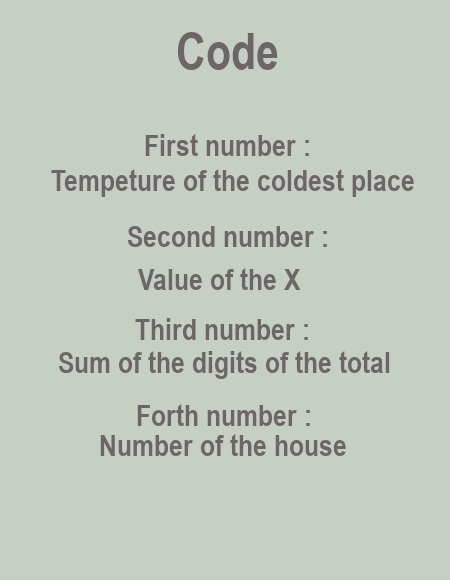
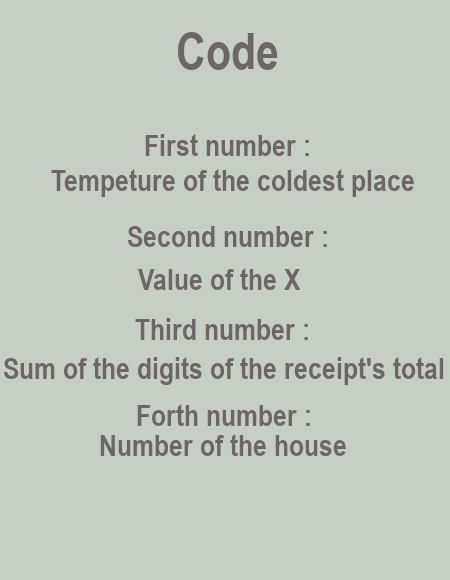
commit

Changed region(s): [[0.0, 0.5897, 0.9956, 0.6828]]

diff --git a/script.js b/script.js
@@ -15,6 +15,31 @@ let RECEIPT_INVENTORY;
 let RECEIPT_ZOOM;
 let KEY_INVENTORY;
 let NOTEBOOK_INVENTORY;
+let NOTEBOOK_ZOOM;
+let CODE_ZOOM=document.createElement("div");
+    CODE_ZOOM.id="code-zoom";
+    CODE_ZOOM.innerHTML=`
+        <div id="display"></div>
+        <div>
+            <button onclick="add('1')">1</button>
+            <button onclick="add('1')">2</button>
+            <button onclick="add('1')">3</button>
+        </div>
+        <div>
+            <button onclick="add('1')">4</button>
+            <button onclick="add('1')">5</button>
+            <button onclick="add('1')">6</button>
+        </div>
+        <div>
+            <button onclick="add('1')">7</button>
+            <button onclick="add('1')">8</button>
+            <button onclick="add('1')">9</button>
+        </div>
+        <div>
+            <button onclick="add('1')">0</button>
+            <button onclick="clear_display()">Clear</button>
+        </div>
+    `;
 
 const INVENTORY_SLOT_COUNT = 14;
 
@@ -36,6 +61,7 @@ let cabinet_left;
 let cabinet_right;
 let tv;
 let curtain;
+let code;
 
 function go_wall() {
     if (current_wall == wall1) {
@@ -88,8 +114,16 @@ function go_wall() {
         WALL.style.backgroundImage = "url('images/door_wall.png')";
         WALL.innerHTML = `
             <button id="curtain" onclick='open_curtain()'></button>
-        `;
+            <button id="code" onclick='enter_code()'></button> 
+            `;
         curtain=0;
+        
+        document.getElementById("code").addEventListener('click',()=>{
+            open_image(CODE_ZOOM)
+        });
+        itemImageBackground.addEventListener('click',()=>{
+            close_image(CODE_ZOOM)
+        });
     }
 }
 
@@ -136,10 +170,6 @@ function render_inventory(){
     })
 }
 function open_image(itemImage){
-    if(visibility===0){
-        itemImage.style.display="block";
-        itemImageBackground.style.display="block";
-    }
         ALL.appendChild(itemImageBackground);
         ALL.appendChild(itemImage);
         visibility=1; 
@@ -184,6 +214,16 @@ function open_close_cabinet(side){
             itemImageBackground.id="image-background";
             NOTEBOOK_INVENTORY=document.createElement("div");
             NOTEBOOK_INVENTORY.id="notebook-inventory";
+            NOTEBOOK_ZOOM=document.createElement("div");
+            NOTEBOOK_ZOOM.id="notebook-zoom";
+
+
+            NOTEBOOK_INVENTORY.addEventListener('click',()=>{
+                open_image(NOTEBOOK_ZOOM)
+            });
+            itemImageBackground.addEventListener('click',()=>{
+                close_image(NOTEBOOK_ZOOM)
+            });
         }
     }
     else if(side == "left"){
@@ -257,6 +297,21 @@ function open_curtain(){
     else if(curtain==1){
         document.getElementById("curtain").style.backgroundImage="url('images/curtain_close.png')";
         curtain=0;
+    }
+}
+function add(val){
+    document.getElementById("display").value+=val;
+}
+function clear_display(){
+    document.getElementById("display").value="";
+}
+function enter(){
+    code=document.getElementById("display").value;
+    if(code==9564){
+        window.alert("Congrats! You Escaped!");
+    }
+    else{
+        window.alert("The code is wrong!");
     }
 }
 // Dedicated initialization function for clarity

diff --git a/style.css b/style.css
@@ -155,7 +155,7 @@ body{
     cursor: pointer;
 }
 #note-zoom{
-    background-image: url("images/caesar_cipher.png");
+    background-image: url("images/note_zoom.png");
     width: 450px;
     height:580px;
     position: absolute;
@@ -193,7 +193,7 @@ body{
     cursor: pointer;
 }
 #receipt-zoom{
-    background-color: rgb(235, 226, 171);
+    background-image: url("images/receipt_zoom.png");
     width: 450px;
     height:580px;
     position: absolute;
@@ -307,5 +307,22 @@ body{
     border: none;
     position: absolute;
     margin: 13px;
+    cursor: pointer;
+}
+#notebook-zoom{
+    background-image: url("images/math_homework_zoom.png");
+    width: 450px;
+    height:580px;
+    position: absolute;
+    left:250px;
+}
+#code{
+    background-image: url("images/code.png");
+    width:80px;
+    height:100px;
+    border:none;
+    position: absolute;
+    top:240px;
+    left:310px;
     cursor: pointer;
 }